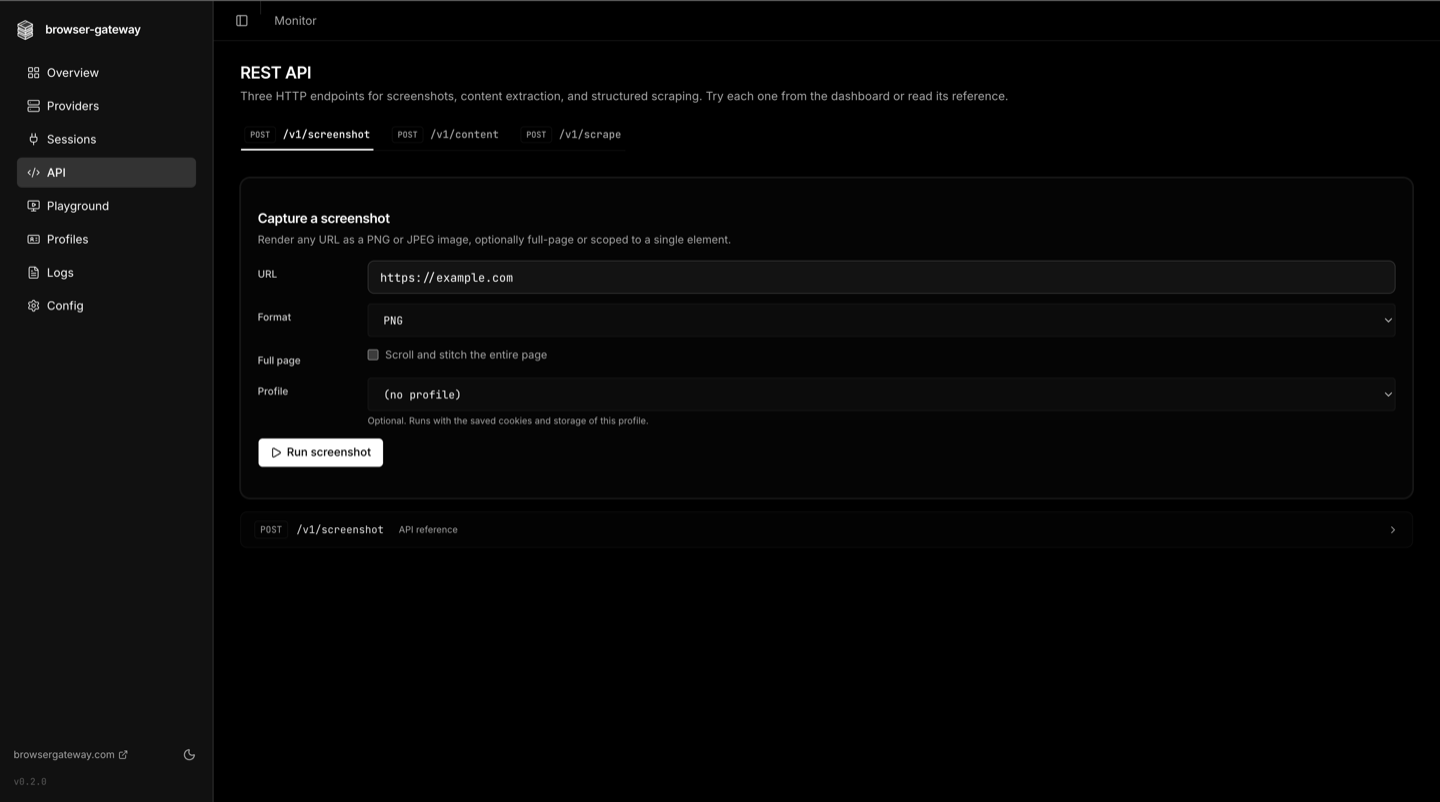
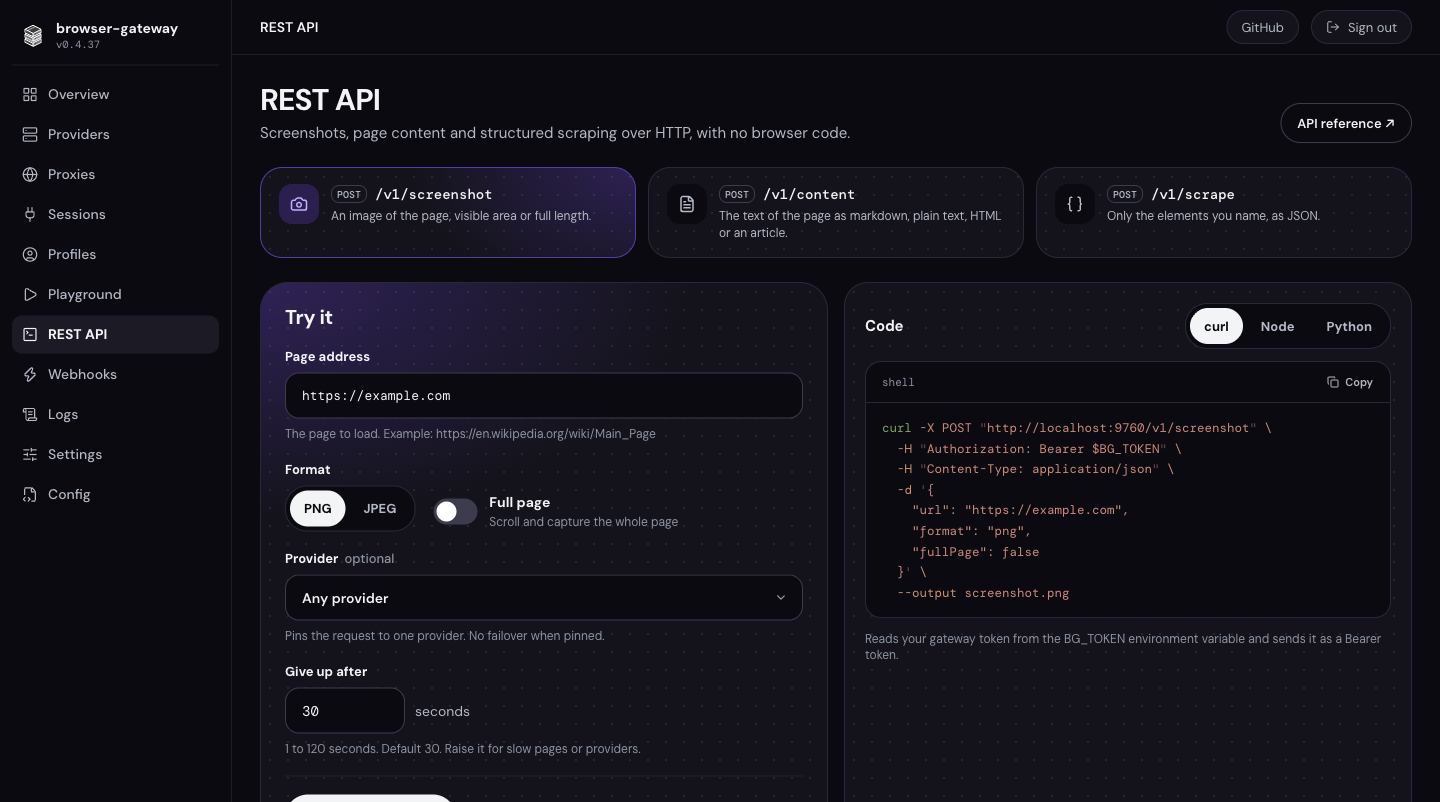
docs: README screenshots show the redesigned dashboard

diff --git a/README.md b/README.md
@@ -73,19 +73,19 @@ A web dashboard ships with every install. Open `http://localhost:9500/web` after
 **Overview.** Active sessions, queue depth, provider health, connection endpoint, and a copy-paste quickstart for Puppeteer, Playwright, Stagehand, browser-use, and raw CDP.
 
 <p align="center">
-  <img src="https://raw.githubusercontent.com/browser-gateway/browser-gateway/main/docs/assets/overview.png" alt="Dashboard overview page showing active sessions, queue depth, provider health, masked connection endpoint, and a tabbed quickstart with Puppeteer code" width="860" />
+  <img src="https://raw.githubusercontent.com/browser-gateway/browser-gateway/main/docs/assets/overview.png" alt="Dashboard overview with a sessions-per-day chart, running and all-time counts, and a Connect card that gives a ready prompt to add the gateway to Claude Code, Codex, Cursor and other agents" width="860" />
 </p>
 
 **REST API.** Run screenshot, content extraction, and structured scraping endpoints from a form-driven UI, with profile selection and parameter reference inline.
 
 <p align="center">
-  <img src="https://raw.githubusercontent.com/browser-gateway/browser-gateway/main/docs/assets/api.png" alt="REST API page in the dashboard with three tabs (screenshot, content, scrape) and a form to capture a screenshot of a target URL with format and profile options" width="860" />
+  <img src="https://raw.githubusercontent.com/browser-gateway/browser-gateway/main/docs/assets/api.png" alt="REST API page in the dashboard with the screenshot, content and scrape endpoints, a form to try a request, and the matching curl code" width="860" />
 </p>
 
 **Playground.** Drive any provider live from the browser. Pick a provider and profile, type into the canvas as if it were a local browser, and watch the remote session in real time.
 
 <p align="center">
-  <img src="https://raw.githubusercontent.com/browser-gateway/browser-gateway/main/docs/assets/playground.jpg" alt="Live playground page streaming a remote Chrome session showing yahoo.com loaded inside the dashboard canvas" width="860" />
+  <img src="https://raw.githubusercontent.com/browser-gateway/browser-gateway/main/docs/assets/playground.jpg" alt="Live playground streaming a remote Chrome session with a Wikipedia article loaded, beside the session details and an activity log" width="860" />
 </p>
 
 ---
